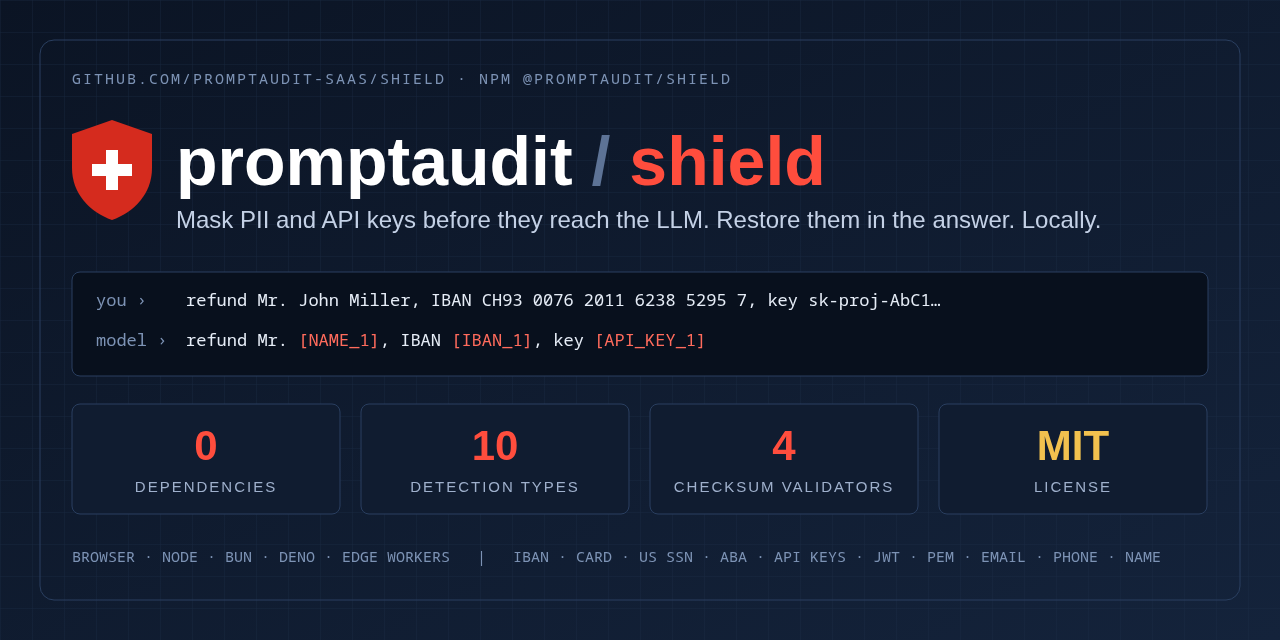
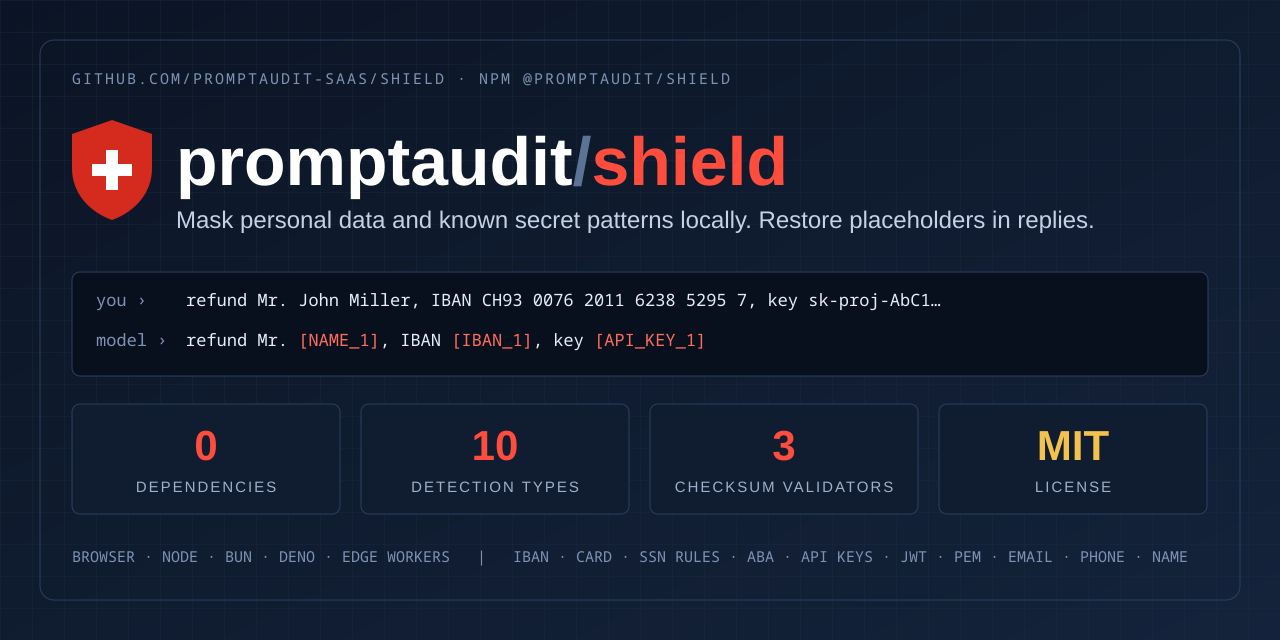
Publish English documentation and artwork for shield 0.1.2

diff --git a/README.md b/README.md
@@ -1,10 +1,10 @@
 # @promptaudit/shield
 
-![PromptAudit Shield – lokale Textmaskierung](./assets/banner.png)
+![PromptAudit Shield – local text masking](./assets/banner.png)
 
-**Personendaten und bekannte Geheimnismuster lokal maskieren, Platzhalter in Antworten wiederherstellen – auch über mehrere Text-Chunks hinweg.**
+**Mask personal data and known secret patterns locally. Restore placeholders in responses, including across text chunks.**
 
-MIT · TypeScript · keine Laufzeitabhängigkeiten · keine Netzwerkaufrufe oder Telemetrie im Paket
+MIT · TypeScript · zero runtime dependencies · no network calls or telemetry in the package
 
 ```bash
 npm install @promptaudit/shield
@@ -14,164 +14,164 @@ npm install @promptaudit/shield
 import { shieldMessages } from '@promptaudit/shield';
 
 const session = shieldMessages([
-  { role: 'user', content: 'Kontakt: fictional@example.invalid' },
+  { role: 'user', content: 'Contact: fictional@example.invalid' },
 ]);
-console.log(session.messages); // content: 'Kontakt: [EMAIL_1]'
-console.log(session.restore('Antwort für [EMAIL_1]')); // lokales Original
+console.log(session.messages); // content: 'Contact: [EMAIL_1]'
+console.log(session.restore('Reply for [EMAIL_1]')); // local original
 session.clear();
 ```
 
-Die Daten sind fiktiv. Eine leere Trefferliste ist kein Nachweis, dass ein Text keine Geheimnisse enthält.
+The data is fictional. An empty match list does not prove that text contains no secrets.
 
-## Datenfluss und Vertrauensgrenze
+## Data flow and trust boundary
 
 ```text
-Ihr Prozess / Browser
-  Originaltext -> shield / shieldMessages -> maskierter Text
+Your process / browser
+  Original text -> shield / shieldMessages -> masked text
                        |
-                  Zuordnung im RAM
+                  Mapping in RAM
                        |
-  lokale Wiederherstellung <- Modellantwort mit Platzhaltern
+  Local restoration <- model response containing placeholders
 ```
 
-Das Paket sendet selbst nichts. **Ihr Code entscheidet**, welche Inhalte an ein Modell gehen und wer die wiederhergestellten Originale erhält. `restore`, `unshield` und die Streaming-Helfer geben Klartext an den jeweiligen Aufrufer zurück. Ein kompromittierter Prozess oder ein falscher Aufruf kann Originale offenlegen.
+The package sends nothing itself. **Your code decides** what reaches a model and who receives restored originals. `restore`, `unshield` and streaming helpers return plaintext to their caller. A compromised process or incorrect call can expose originals.
 
-## Text und Chat-Nachrichten
+## Text and chat messages
 
-| Funktion | Ergebnis |
+| Function | Result |
 | --- | --- |
-| `shield(text, detectorsOrOptions?)` | `{ masked, map, counts }`, bestehende Einzeltext-API |
-| `unshield(text, map)` | lokale Wiederherstellung bekannter Platzhalter |
-| `withShield(prompt, call)` | maskieren → kundeneigener Aufruf → lokal wiederherstellen |
-| `shieldMessages(messages, detectorsOrOptions?)` | neue Nachrichten, gemeinsame Kategorienzählung, `restore`, `createRestoreStream`, `clear` |
-| `createUnshieldStream(map, options?)` | Web-Streams-Paar für Text-Chunks |
-| `createUnshieldSseStream(map, options)` | begrenztes Web-Streams-Paar für ausdrücklich gewählte OpenAI-/Anthropic-SSE-Formate |
+| `shield(text, detectorsOrOptions?)` | `{ masked, map, counts }`, existing single-text API |
+| `unshield(text, map)` | Local restoration of known placeholders |
+| `withShield(prompt, call)` | Mask → caller's own request → restore locally |
+| `shieldMessages(messages, detectorsOrOptions?)` | New messages, shared category counts, `restore`, `createRestoreStream`, `clear` |
+| `createUnshieldStream(map, options?)` | Web Streams pair for text chunks |
+| `createUnshieldSseStream(map, options)` | Bounded Web Streams pair for explicitly selected OpenAI/Anthropic SSE formats |
 
-`shieldMessages` kopiert Nachrichten und Textblöcke, verändert die Eingabe nicht und verwendet eine getrennte Zuordnung pro Aufruf. Dieselbe erkannte Zeichenfolge erhält innerhalb dieses Aufrufs denselben Platzhalter; bereits im Eingang vorhandene Platzhalter werden nicht neu belegt. `counts` zählt eindeutige erkannte Werte, nicht jede Wiederholung.
+`shieldMessages` copies messages and text blocks without mutating input and uses a separate mapping per call. The same detected string gets the same placeholder within that call; existing input placeholders are reserved. `counts` counts unique detected values, not every occurrence.
 
-Unterstützt werden `content: string`, `content: null` und reine `{ type: 'text', text: string }`-Blöcke. **Bilder, Dateien, Tool-Aufrufe und Tool-Ergebnisse werden verweigert**, nicht still als geschützt weitergereicht. Metadaten wie `name` werden unverändert übernommen und sind nicht maskiert. Anthropic-Systemtexte ausserhalb von `messages` und Gemini-`contents` sind nicht von dieser Funktion abgedeckt. Vercel-UI-Nachrichten mit `parts` statt `content` müssen ausdrücklich konvertiert werden.
+Supported: `content: string`, `content: null` and plain `{ type: 'text', text: string }` blocks. **Images, files, tool calls and tool results are rejected**, not silently forwarded as protected. Metadata such as `name` is copied unchanged and is not masked. Anthropic system text outside `messages` and Gemini `contents` are not covered by this function. Vercel UI messages using `parts` instead of `content` require explicit conversion.
 
-## Eigene Begriffe und strukturierte Werte
+## Custom terms and structured values
 
 ```ts
 import { shieldMessages, shieldToolCalls } from '@promptaudit/shield';
-const session = shieldMessages([{ role: 'user', content: 'Projekt Alpha' }], {
-  customTerms: ['Projekt Alpha'],
+const session = shieldMessages([{ role: 'user', content: 'Project Alpha' }], {
+  customTerms: ['Project Alpha'],
 }); // content: [TERM_1]
 session.clear();
-const tools = shieldToolCalls([{ type: 'function', id: 'fiktiv', function: {
-  name: 'lookup', arguments: '{"client":"Projekt Alpha","limit":10}',
-} }], { customTerms: ['Projekt Alpha'] });
-// tools.data enthält maskierte String-Werte; IDs, Namen und Zahlen bleiben erhalten.
+const tools = shieldToolCalls([{ type: 'function', id: 'fictional', function: {
+  name: 'lookup', arguments: '{"client":"Project Alpha","limit":10}',
+} }], { customTerms: ['Project Alpha'] });
+// tools.data contains masked string values; IDs, names and numbers are preserved.
 tools.clear();
 ```
 
-`shieldStructured(value, options)` liefert `{ data, counts, restore, clear }` für ausdrücklich übergebene reine JSON-Daten. Objekt- und Array-Eingaben werden kopiert; keine Typ-/Referenzidentität für Klassen versprochen. Keys bleiben **unmaskiert** und können selbst sensible Angaben enthalten. Keine ungeprüfte Übertragung solcher Keys.
+`shieldStructured(value, options)` returns `{ data, counts, restore, clear }` for explicitly supplied plain JSON data. Objects and arrays are copied; class type/reference identity is not promised. Keys remain **unmasked** and may themselves contain sensitive information. Do not forward such keys without reviewing them.
 
-`shieldToolCalls` unterstützt OpenAI-`type: function` mit serialisierten `arguments` und Anthropic-`type: tool_use` mit `input`. Änderungen an gültigem serialisiertem JSON erfolgen nur an String-Wert-Spannen: Whitespace, Schlüssel, doppelte Schlüssel und Zahlenschreibweisen bleiben unverändert. **Ungültiges JSON, Zyklen, Getter, Klassen und überschrittene Grenzen werden verweigert**, niemals ungeprüft weitergegeben. Maskierte String-Werte können trotzdem Enum-/Formatvorgaben eines Tools verletzen; vor Ausführung separat schema-validieren und eine bewusste lokale Wiederherstellungsgrenze setzen. Ausgehende Modell-Toolbefehle werden vom Anbieter-Wrapper nicht automatisch demaskiert oder ausgeführt.
+`shieldToolCalls` supports OpenAI `type: function` with serialized `arguments` and Anthropic `type: tool_use` with `input`. Valid serialized JSON is changed only within string-value spans: whitespace, keys, duplicate keys and number lexemes are preserved. **Invalid JSON, cycles, getters, classes and exceeded limits are rejected**, never forwarded unchecked. Masked string values may still violate a tool's enum/format constraints; validate against its schema separately before execution and establish an explicit local restoration boundary. Provider wrappers do not automatically restore or execute model-generated tool commands.
 
-Begriffe: Aho–Corasick, frühester/längster nicht überlappender Treffer, Unicode-Ränder inklusive kombinierender Zeichen. Gross-/Kleinschreibung verwendet einfache Faltung pro Codepoint, **keine vollständige sprachabhängige Normalisierung** (z. B. ß/ss oder kontextuelles Sigma). `caseInsensitive: false` und `wholeWords: false` sind ausdrücklich wählbar. Normalisierung der Engine gilt weiterhin.
+Terms: Aho–Corasick; earliest/longest non-overlapping match; Unicode boundaries including combining marks. Case-insensitive matching uses simple per-code-point folding, **not full language-specific normalization** (for example ß/ss or contextual sigma). `caseInsensitive: false` and `wholeWords: false` are explicit options. Engine normalization still applies.
 
-Grenzen: 1'000 Begriffe, 256 UTF-16-Einheiten pro Begriff, 1'048'576 Einheiten pro Text/Sitzungsreservierung, 100'000 Kandidaten, 10'000 Platzhalter; strukturierte Daten standardmässig Tiefe 64 und 50'000 Knoten. Aufwand hängt auch von Wörterbuch und Trefferzahl ab; kein O(1)-Speicher-/Null-Latenz-Versprechen. Beliebige kundeneigene Regex-Detektoren sind nicht durch den Begriffsmatcher gegen ReDoS abgesichert.
+Limits: 1,000 terms; 256 UTF-16 code units per term; 1,048,576 units per text/session reservation; 100,000 candidates; 10,000 placeholders; structured data defaults to depth 64 and 50,000 nodes. Work also depends on dictionary size and match count; no O(1)-memory or zero-latency promise. Arbitrary caller-supplied regex detectors are not protected against ReDoS by the term matcher.
 
-## Anbieter-Wrapper: ausdrücklich begrenzte Schnittstelle
+## Provider wrappers: an explicitly bounded interface
 
 ```ts
 import { wrapOpenAI } from '@promptaudit/shield';
-// originalClient: Ihr separat installierter SDK-Client mit Ihrem eigenen Schlüssel.
-const client = wrapOpenAI(originalClient, { customTerms: ['Projekt Alpha'] });
+// originalClient: your separately installed SDK client with your own key.
+const client = wrapOpenAI(originalClient, { customTerms: ['Project Alpha'] });
 const stream = await client.chat.completions.create({
-  model: configuredModel, messages: [{ role: 'user', content: 'Projekt Alpha' }], stream: true,
+  model: configuredModel, messages: [{ role: 'user', content: 'Project Alpha' }], stream: true,
 });
 try {
   for await (const chunk of stream) {
     const localText = chunk.choices[0]?.delta.content ?? '';
-    // localText kann Originale enthalten: nur an berechtigte Empfänger weitergeben.
+    // localText may contain originals: share only with authorised recipients.
   }
 } finally { stream.abort(); }
 ```
 
-`wrapAnthropic(originalClient).messages.create(...)` liefert eine normale Promise; `await client.messages.stream(...)` einen eigenen einmalig konsumierbaren AsyncIterable mit `abort()`. System-Text und unterstützte Text-/Tool-Payloads werden vor dem delegierten SDK-Aufruf maskiert. Textantworten werden lokal wiederhergestellt. Request-Optionen und AbortSignal werden an das kundeneigene SDK weitergereicht; dieses SDK, nicht Shield selbst, baut die Verbindung auf.
+`wrapAnthropic(originalClient).messages.create(...)` returns a normal Promise; `await client.messages.stream(...)` returns a custom, single-consumption AsyncIterable with `abort()`. System text and supported text/tool payloads are masked before the delegated SDK call. Text responses are restored locally. Request options and AbortSignal are forwarded to the caller's SDK; that SDK, not Shield itself, opens the connection.
 
-**Kein vollständiger SDK-Drop-in:** Keine OpenAI-Responses-/Realtime-/Batch-API, `.withResponse()`, `.asResponse()`, `.tee()` oder Anthropic-Eventlistener/`.finalMessage()`/`.finalText()`. Anthropic `.stream()` ist hier asynchron und kein nativer SDK-MessageStream. Bilder und unbekannte Inhaltsblöcke werden abgewiesen. OpenAI-Tool-Ergebnisse in `role: tool` werden in dieser Fassade nur als gültiges serialisiertes JSON akzeptiert; Anthropic-`tool_result` nur als String. Weitere Formate brauchen einen eigenen geprüften Adapter. Toolschemata, IDs, Namen und übrige Metadaten bleiben unmaskiert; nur ausdrücklich unterstützte Text- und Argumentfelder werden geschützt. Der Originalclient bleibt separat zugänglich, seine Aufrufe umgehen diesen Wrapper.
+**Not a complete SDK drop-in:** No OpenAI Responses/Realtime/Batch API, `.withResponse()`, `.asResponse()`, `.tee()` or Anthropic event listeners/`.finalMessage()`/`.finalText()`. Here Anthropic `.stream()` is asynchronous, not a native SDK MessageStream. Images and unknown content blocks are rejected. OpenAI `role: tool` results are accepted only as valid serialized JSON in this facade; Anthropic `tool_result` only as a string. Other formats need their own reviewed adapter. Tool schemas, IDs, names and other metadata remain unmasked; only explicitly supported text and argument fields are protected. The original client remains accessible separately; its calls bypass the wrapper.
 
-Zuordnungen und Textkanäle sind je Anfrage getrennt. Ende, Fehler und vorzeitiger Schleifenabbruch räumen auf und brechen die eigene Anbieteranfrage ab. Unkonsumierte Streams verfallen nach standardmässig fünf Minuten (`timeoutMs`, maximal 30 Minuten); für schnellere Freigabe ausdrücklich `stream.abort()`. Aufbewahrung im RAM ist keine sichere Speicherlöschung. Pufferreste erscheinen vor Kanal-Ende, fehlerhaft abgebrochene Streams werden nicht als vollständig dargestellt. Nach Streamende ist Wiederherstellung über dieselbe Sitzung nicht mehr möglich.
+Mappings and text channels are isolated per request. Completion, errors and early loop termination clean up and abort that provider request. Unconsumed streams expire after five minutes by default (`timeoutMs`, maximum 30 minutes); call `stream.abort()` explicitly for earlier release. RAM retention is not secure memory erasure. Buffered text is emitted before channel completion; failed streams are not represented as complete. Restoration using the same session is no longer possible after stream completion.
 
-Kompatibilitätstests verwenden die tatsächlich installierten SDKs **OpenAI 7.65.0 und Anthropic 1.14.0** mit lokalen Fetch-Antworten. Das prüft deren Serialisierung/Streaming, **keinen echten Modellaufruf, Modellverhalten oder alle SDK-Versionen**. Die SDKs sind ausschliesslich Entwicklungsabhängigkeiten und werden nicht ins Laufzeitpaket gebündelt.
+Compatibility tests use the actually installed SDKs **OpenAI 7.65.0 and Anthropic 1.14.0** with local fetch responses. This checks their serialization/streaming, **not real model calls, model behaviour or every SDK version**. The SDKs are development dependencies only and are not bundled into the runtime package.
 
-## Beispiel: OpenAI-Chat (kundeneigenes SDK)
+## Example: OpenAI chat with your own SDK
 
 ```ts
 import { shieldMessages } from '@promptaudit/shield';
-// client ist Ihr separat installierter und konfigurierter OpenAI-Client.
-const session = shieldMessages([{ role: 'user' as const, content: 'Mail fictional@example.invalid' }]);
+// client is your separately installed and configured OpenAI client.
+const session = shieldMessages([{ role: 'user' as const, content: 'Email fictional@example.invalid' }]);
 try {
   const response = await client.chat.completions.create({
     model: configuredModel, messages: session.messages,
   });
   const localAnswer = session.restore(response.choices[0]?.message.content ?? '');
-  // localAnswer enthält wieder Originale. Nicht ungeprüft an andere Empfänger senden.
+  // localAnswer contains originals again. Review recipients before sharing.
 } finally {
   session.clear();
 }
 ```
 
-Dies ist ein Integrationsmuster, kein ausgeführter externer Modellaufruf. SDK und Modell werden vom Entwickler ausgewählt. Weitere Anbieter dürfen nur nach Prüfung ihrer konkreten Nachrichtentypen angeschlossen werden.
+This is an integration pattern, not an executed external model call. The developer selects the SDK and model. Other providers require review of their specific message types before integration.
 
-## Text-Streaming
+## Text streaming
 
-Ein Platzhalter kann in mehreren Chunks eintreffen: `[` → `IB` → `AN_1]`. Die Wiederherstellung prüft **exakte Schlüssel der lokalen Zuordnung**, nicht nur Kategoriennamen. Unbekannte Tokens, Markdown-Klammern und unvollständige Tokens bleiben unverändert. Backpressure wird über native Web Streams weitergegeben.
+A placeholder may arrive across chunks: `[` → `IB` → `AN_1]`. Restoration checks **exact keys in the local mapping**, not just category names. Unknown tokens, Markdown brackets and incomplete tokens remain unchanged. Backpressure is passed through native Web Streams.
 
 ```ts
 import { createUnshieldStream, shield } from '@promptaudit/shield';
-const session = shield('Mail fictional@example.invalid');
-// textStream: ReadableStream<string> mit Modell-Text, nicht rohem SSE/JSON.
+const session = shield('Email fictional@example.invalid');
+// textStream: ReadableStream<string> of model text, not raw SSE/JSON.
 const restored = textStream.pipeThrough(createUnshieldStream(session.map));
 ```
 
-Für Vercel AI SDK ist dieses Muster auf einen tatsächlichen `ReadableStream<string>` wie `result.textStream` beschränkt. Es ist **kein** allgemeiner Ersatz für dessen UI-/Tool-Stream-Protokoll.
+For Vercel AI SDK, this pattern is limited to a real `ReadableStream<string>` such as `result.textStream`. It is **not** a general replacement for that SDK's UI/tool stream protocol.
 
-Die Helfer liefern ein `ReadableWritablePair`, das eine native `TransformStream`-Instanz mit Abbruchbereinigung umschliesst. Kein zusätzlicher Parser wird benötigt. `Transformer.cancel` wird nicht als portable Funktion vorausgesetzt.
+The helpers return a `ReadableWritablePair` wrapping a native `TransformStream` instance with abort cleanup. No additional parser is required. `Transformer.cancel` is not assumed to be portable.
 
-### Ressourcen und Abbruch
+### Resources and cancellation
 
-- Standard `maxBufferSize: 256` **UTF-16-Codeeinheiten**, nicht Bytes. Bereich 8–4'096; sämtliche Map-Schlüssel müssen hineinpassen, sonst Fehler vor dem Start.
-- Der ausstehende Tokenpuffer ist begrenzt. Die Präfixmenge wächst mit Anzahl und Länge der bekannten Schlüssel; die gesamte Sitzung ist **nicht O(1)**.
-- Leser-Cancel, Schreiber-Abort, Fehler und normales Ende räumen den internen Parser auf. Optionaler `signal`-Abbruch beendet die Verarbeitung.
-- `clearVaultOnTerminate: true` löscht die Map nur bei exklusiver Eigentümerschaft. Bei `shieldMessages` verwenden Sie `session.clear()` nach Abschluss aller Streams; ein einzelner Stream darf die gemeinsame Session nicht leeren.
-- Map-Clear ist **keine sichere RAM-Nullung**; JavaScript kann vorhandene Strings und externe Kopien nicht garantiert löschen. Zuordnungen niemals global zwischen Nutzern teilen oder protokollieren.
+- Default `maxBufferSize: 256` **UTF-16 code units**, not bytes. Range 8–4,096; all mapping keys must fit, otherwise an error is raised before starting.
+- The pending token buffer is bounded. The prefix set grows with the number and length of known keys; the whole session is **not O(1)**.
+- Reader cancellation, writer abort, errors and normal completion clear the internal parser. An optional `signal` abort stops processing.
+- `clearVaultOnTerminate: true` clears the map only under exclusive ownership. With `shieldMessages`, call `session.clear()` after all streams finish; one stream must not clear a shared session.
+- Clearing a map is **not secure RAM zeroing**; JavaScript cannot guarantee erasure of existing strings and external copies. Never share mappings globally across users or log them.
 
-## Rohes SSE
+## Raw SSE
 
 ```ts
 import { shield, createUnshieldSseStream } from '@promptaudit/shield';
-const session = shield('Mail fictional@example.invalid');
-// body: ReadableStream<Uint8Array> eines kundeneigenen Anbieteraufrufs.
+const session = shield('Email fictional@example.invalid');
+// body: ReadableStream<Uint8Array> from your own provider request.
 const restoredBody = body.pipeThrough(createUnshieldSseStream(session.map, {
-  provider: 'openai', // oder 'anthropic'; ausdrücklich wählen
+  provider: 'openai', // or 'anthropic'; select explicitly
   clearVaultOnTerminate: true,
 }));
 ```
 
-Gemessen werden in lokalen Fixtures OpenAI-Chat-Completions (`choices[index].delta.content`) und Anthropic-Text-Deltas (`content_block_delta`, `index`, `delta.type: text_delta`). Keine Behauptung über alle SDK-Versionen oder Gemini-/OpenAI-Responses-/Vercel-UI-Protokolle.
+Local fixtures cover OpenAI Chat Completions (`choices[index].delta.content`) and Anthropic text deltas (`content_block_delta`, `index`, `delta.type: text_delta`). No claim of compatibility with all SDK versions or Gemini/OpenAI Responses/Vercel UI protocols.
 
-Der Parser erhält SSE-Kommentare, `event`, `id`, `retry`, mehrzeilige `data`-Felder und Nicht-Text-Ereignisse; Zeilenenden werden zu LF normalisiert. Ausgabekanäle haben getrennte Tokenpuffer. Unvollständiger Text wird vor einem Endereignis ausgegeben; dazu kann ein zusätzlicher Text-Delta mit der letzten bekannten Hülle entstehen. Nicht für signierte oder byteidentisch zu erhaltende Ereignisse verwenden.
+The parser preserves SSE comments, `event`, `id`, `retry`, multiline `data` fields and non-text events; line endings are normalized to LF. Output channels have separate token buffers. Incomplete text is emitted before an end event; this may create an extra text delta using the last known envelope. Do not use it for signed events or events that must remain byte-identical.
 
-Standardgrenzen: **65'536 UTF-16-Codeeinheiten pro Event, 32 aktive Textkanäle**; maximal einstellbar 1'048'576 bzw. 128. Ungültiges UTF-8, fehlerhaftes JSON und überschrittene Grenzen erzeugen einen Fehler statt stillen Textverlust. Metadaten und Nicht-Text-Payloads werden nicht maskiert. Kein Fetch-Interceptor, keine automatische Eingabeabfangfunktion.
+Default limits: **65,536 UTF-16 code units per event, 32 active text channels**; configurable up to 1,048,576 and 128 respectively. Invalid UTF-8, malformed JSON and exceeded limits produce an error rather than silent text loss. Metadata and non-text payloads are not masked. No fetch interception or automatic prompt interception.
 
-## Erkennung und Grenzen
+## Detection and limits
 
-IBAN (Mod-97), Karten (Luhn + unterstützte Präfixe), US-SSN-Strukturregeln, ABA-Routing-Prüfsumme mit Schlüsselwort, E-Mail, internationale Telefonnummern, Namen nach unterstützten englischen Titeln, bekannte API-Schlüsselmuster/JWT, PEM-Privatschlüssel, Datenbank-URLs mit Zugangsdaten, `.env`-Geheimnismuster und Bearer-Werte.
+IBAN (Mod-97); cards (Luhn plus supported prefixes); US SSN structural rules; ABA routing checksum with a keyword; email; international phone numbers; names following supported English titles; known API-key patterns/JWT; PEM private keys; credential-bearing database URLs; `.env` secret patterns; Bearer values.
 
-- US-SSN-Regeln sind Strukturprüfungen, **keine Prüfsumme oder Identitätsprüfung**.
-- Keine Entropieprüfung eingebaut. `.env`-Treffer sind Mustererkennung, keine Garantie für echte Zugangsdaten.
-- Freitextadressen, Namen ohne unterstützten Titel, medizinische Begriffe und unbekannte Geheimnisformate können unerkannt bleiben. Falschtreffer sind möglich, auch bei gültigen Prüfsummen.
-- Normalisierung entfernt Zero-Width-Zeichen und faltet Full-Width-Zeichen; Wiederherstellung liefert normalisierte erkannte Werte, **keine byteidentische Originalrekonstruktion**.
-- Keine NER-Modelle, unabhängige Zertifizierung, DLP-Garantie, verschlüsselte Ablage oder Auditprotokolle. NLP-Lösungen lösen andere Erkennungsaufgaben; hier wurde kein Presidio-Geschwindigkeits-/Grössenvergleich gemessen.
+- US SSN rules are structural checks, **not a checksum or identity verification**.
+- No built-in entropy check. `.env` matches are pattern recognition, not proof of real credentials.
+- Free-form addresses, names without a supported title, medical terms and unknown secret formats may remain undetected. False positives are possible, even with valid checksums.
+- Normalization removes zero-width characters and folds full-width characters; restoration returns normalized matched values, **not byte-identical originals**.
+- No NER models, independent certification, DLP guarantee, encrypted storage or audit logs. NLP systems address different detection tasks; no Presidio speed/size comparison has been measured here.
 
-## Reproduzierbare lokale Prüfungen
+## Reproducible local checks
 
-Im Quellrepository mit Bun:
+From the source repository with Bun:
 
 ```bash
 bun test src
@@ -180,14 +180,14 @@ bun run build
 bun run bench
 ```
 
-Der Benchmark nutzt fiktive Daten und berichtet Corpuslänge, 1'000 Messungen, Median/p95 sowie unminifizierte ESM- und gzip-Grösse. Werte gelten für das ausgeführte Gerät und die Laufzeit; **keine festen <5-KB-, 0-ms- oder Sub-Millisekunden-Versprechen**.
+The benchmark uses fictional data and reports corpus length, 1,000 measurements, median/p95 and unminified ESM/gzip sizes. Results apply to the device and runtime used; **no fixed <5 KB, 0 ms or sub-millisecond promises**.
 
-Grundlagen: [Web Streams](https://streams.spec.whatwg.org/), [SSE](https://html.spec.whatwg.org/multipage/server-sent-events.html).
+References: [Web Streams](https://streams.spec.whatwg.org/), [SSE](https://html.spec.whatwg.org/multipage/server-sent-events.html).
 
-## Mitwirken und weitere Bausteine
+## Contributing and related tools
 
-Fiktive Gegenbeispiele und reproduzierbare Regressionstests sind willkommen. Bitte keine echten Schlüssel oder Personendaten in Issues oder Pull Requests einfügen. Vor Veröffentlichung API-Verträglichkeit, Abbruchpfade und Paketinhalt prüfen.
+Fictional counterexamples and reproducible regression tests are welcome. Do not include real keys or personal data in issues or pull requests. Review API compatibility, abort paths and package contents before publishing.
 
-Der separate [MCP-Adapter](https://github.com/PromptAudit-SaaS/mcp) nutzt die lokale Engine. Seine Werkzeugnamen bleiben `mask_text`, `scan_text`, `restore_text`; er fängt keine beliebigen Client-Eingaben automatisch ab. Git-Diff-/Pre-Commit-Scan und SARIF sind hier **nicht implementiert**.
+The separate [MCP adapter](https://github.com/PromptAudit-SaaS/mcp) uses the local engine. Its tools are `mask_text`, `scan_text`, `restore_text`, `mask_json` and `restore_json`; it does not automatically intercept arbitrary client input. The adapter can scan a Git diff explicitly piped into its CLI. An automatic pre-commit hook and SARIF are **not implemented** here.
 
-[PromptAudit](https://promptaudit.ch) entwickelt daneben Datenschutz-/Tresor- und KI-Audit-Funktionen; diese proprietären Module sind nicht Bestandteil dieses MIT-Pakets.
+[PromptAudit](https://promptaudit.ch) separately develops data-protection/vault and AI-audit features; these proprietary modules are not part of this MIT package.
